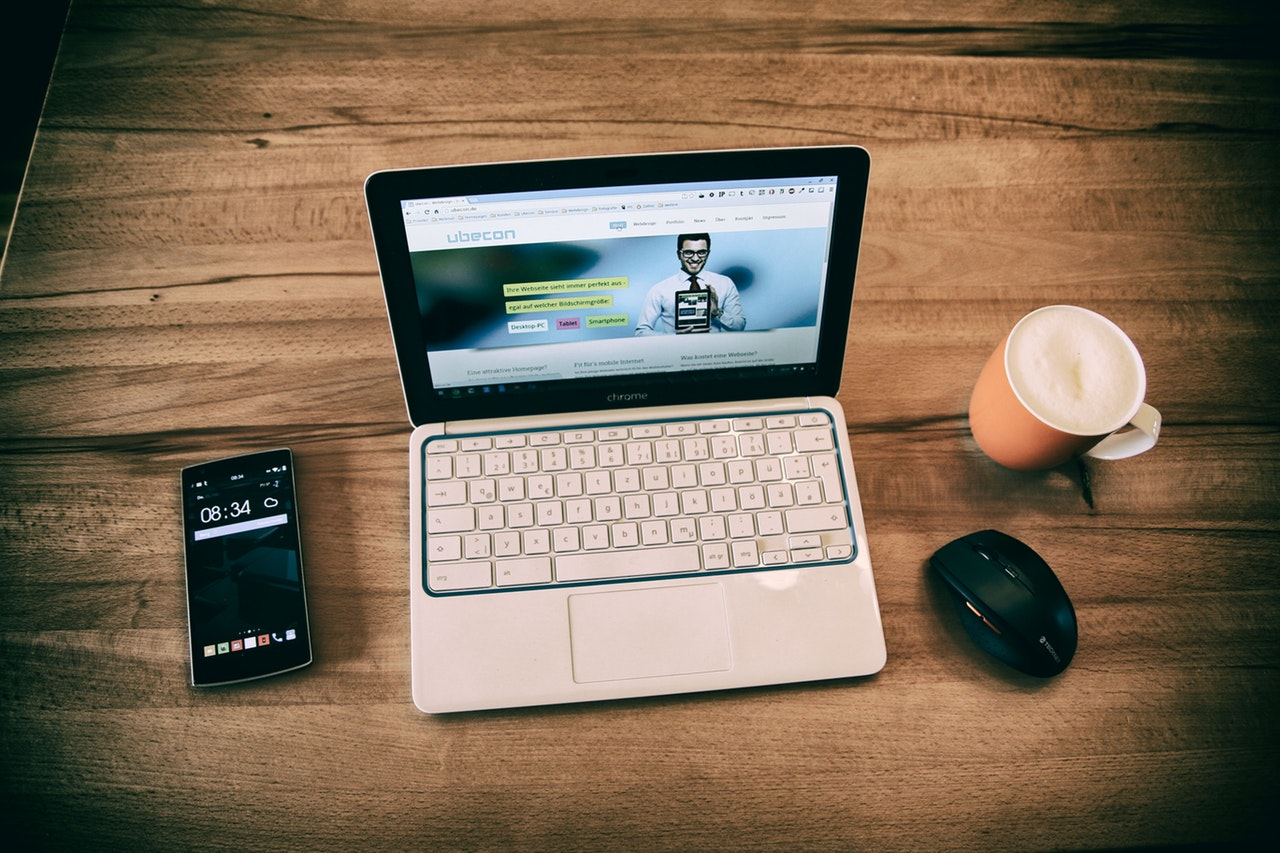
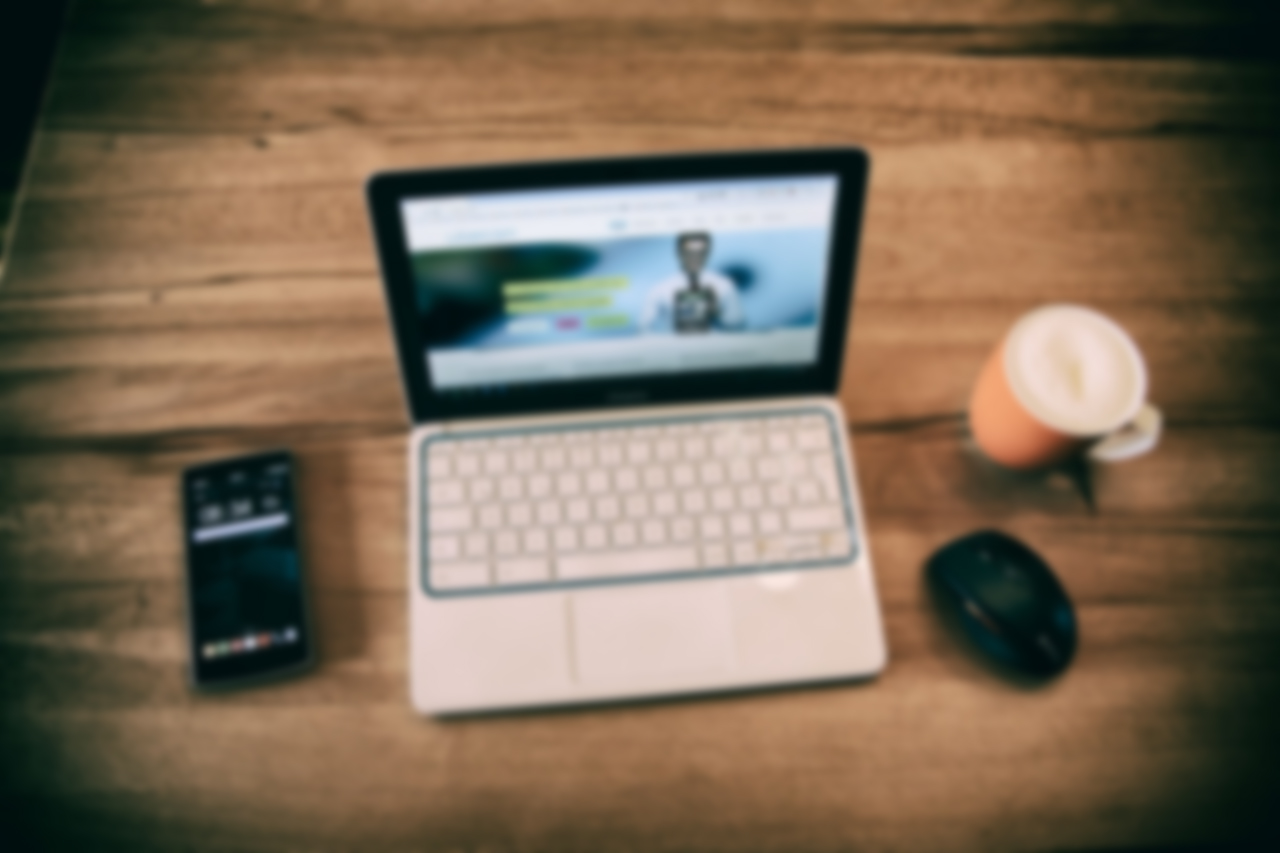
save9

diff --git a/css/style.css b/css/style.css
@@ -1,14 +1,17 @@
+/* FONTS */
+@import url('https://fonts.googleapis.com/css?family=Quicksand:300,400,500,700|Roboto:400,400i,500,700,700i');
+
 /* GENERAL */
 html, html a {
     -webkit-font-smoothing: antialiased;
     text-shadow: 1px 1px 1px rgba(0,0,0,0.004);
-    z-index: 10;
 }
 
 body {
-	color: #c4cbcf;
-	background-color: cornflowerblue;
-	font-family: 'Source Sans Pro', sans-serif;
+	/*color: #c4cbcf;
+	background-color: cornflowerblue;*/
+	font-family: 'Roboto', sans-serif;
+    font-weight: 500;
 }
 
 .container:before,
@@ -27,12 +30,6 @@ body {
 	clear: both;
 }
 
-.container,
-.group,
-.menu {
-	*zoom:1;
-}
-
 a {
 	text-decoration: none;
 }
@@ -43,7 +40,7 @@ strong {
 
 .container {
     width: 100%;
-	/*max-width: 1170px;*/
+	max-width: 1280px;
 	margin: 0 auto;
 }
 
@@ -57,27 +54,30 @@ i {
 	background: #121b21;
 	display: flex;
   	align-items: center;
+    font-family: 'Roboto', sans-serif;
+    font-weight: 700;
+    /*position: sticky;*/
 }
 
 .initials{
-    font-size: 70px;
+    font-size: 60px;
     letter-spacing: -12px;
-    padding-right: 12px;
-}
-
-.post-initials {
-    margin-left: -94px;
+    text-decoration-line: none;
+    padding-right: 20px;
 }
 
 .navigation {
 	margin: 0 auto;
-	height: 84px;
+	height: 50px;
     list-style: none;
 	padding-left: 0;
 }
+.menu {
+    display: none;
+}
 
 .navigation a {
-	color: #c4cbcf;
+	color: white;
 	display: block;
 	text-decoration: none;
 	text-align: center;
@@ -86,7 +86,7 @@ i {
 
 .navigation li {
 	float: right;
-	padding-top: 1.7em;
+	padding-top: 1em;
 	padding-right: 5em;
 }
 
@@ -97,18 +97,34 @@ i {
     float: left;
 }
 
-
-/* INTRO IMAGE*/
-.intro-image {
-    margin: -10px;
-    z-index: 1;
+/* HEADER INTRO TEXT*/
+.intro {
+    display: flex;
+    justify-content: center;
+    align-items: center;
+    max-width: 100%;
+    height: 20%;
 }
 
-.blur {
-	-webkit-filter: blur(3px);
-	filter: blur(0px);
+.intro-text {
+    max-width: 100%;
+    font-family: 'Quicksand', sans-serif;
+    font-weight: 400;
+    letter-spacing: -0.09em;
+    color: white;
+    filter: drop-shadow(0px 0px 12px black);
+    font-size: 10em;
+    margin: -10em 0 0 0;
 }
 
+/*.intro-text:before {
+  content: "";
+  position: absolute;
+  width: 1400px;
+  height: 200px;
+  background: -webkit-radial-gradient(50% 50%, ellipse closest-side, black, transparent);
+  z-index: -1;
+}*/
 
 /*MEDIA QUERIES - NAV BAR*/
 
@@ -122,7 +138,7 @@ i {
 
     .navigation li {
 	   float: right;
-	   padding-top: 1.7em;
+	   padding-top: 1em;
 	   padding-right: 1.5em;
     }
 }
@@ -130,13 +146,96 @@ i {
 @media screen and (max-width: 768px) {
     .navigation li {
 	   float: right;
-	   padding-top: 1.7em;
+	   padding-top: 1em;
 	   padding-right: 0.3em;
     }
     .navigation li:nth-child(2) {
 	   float: right;
-	   padding-top: 1.7em;
+	   padding-top: 1em;
 	   padding-right: 3em;
     }
+}
+@media screen and (max-width: 600px) {
+    .navigation li:first-child {
+        display: block;
+        margin-left: -230px;
+        padding-left: 0px;
+        padding-top: 0em;
+        padding-right: 50em;
+        float: left;
+    }
+    .navigation li {
+        display: none;
+        width: 100%;
+	   float: left;
+	   padding-top: 1em;
+	   padding-right: 0.3em;
+    }
+    .navigation li:nth-child(2) {
+	   float: none;
+	   padding-top: 1em;
+	   padding-right: 3em;
+    }
+    .navigation a {
+        font-size: 16px;
+    }
+    .menu {
+        display: block;
+        float: right;
+	   padding-top: 1.2em;
+	   padding-right: 0.3em;
+    }
+}
 
+
+
+/*MEDIA QUERIES - NAV BAR*/
+
+@media screen and (max-width: 1600px) {
+    .intro-text {
+        font-size: 9em;
+        margin: -6em 0 0 0;
+    }
+}
+@media screen and (max-width: 1300px) {
+    .intro-text {
+        font-size: 7em;
+        margin: -7em 0 0 0;
+    }
+}
+@media screen and (max-width: 1000px) {
+    .intro-text {
+        font-size: 5em;
+        margin: -7em 0 0 0;
+    }
+}
+@media screen and (max-width: 768px) {
+    .intro-text {
+        font-size: 4em;
+        margin: -8em 0 0 0;
+    }
+}
+@media screen and (max-width: 640px) {
+    .intro-text {
+        font-size: 3em;
+        margin: -10em 0 0 0;
+    }
+}
+@media screen and (max-width: 585px) {
+    .intro-text {
+        font-size: 2.5em;
+        margin: -9em 0 0 0;
+    }
+}
+@media screen and (max-width: 430px) {
+    .intro-text {
+        font-size: 2em;
+        margin: -9.5em 0 0 0;
+    }
+}
+@media screen and (max-width: 360px) {
+    .intro-text {
+        font-size: 2em;
+        margin: -8em 0 0 0;
+    }
 }

diff --git a/index.html b/index.html
@@ -3,7 +3,7 @@
 <head>
 	<title>Portfolio | Fedor Božík</title>
 	<meta charset="utf-8">
-    <meta name="viewport" content="width=device-width, initial-scale=1">
+    <meta name="viewport" content="width=device-width, initial-scale=1.0, maximum-scale=1.0, minimum-scale=1.0,target-densitydpi=device-dpi, user-scalable=no" />
 
     <link rel="stylesheet" href="https://use.fontawesome.com/releases/v5.0.10/css/all.css" integrity="sha384-+d0P83n9kaQMCwj8F4RJB66tzIwOKmrdb46+porD/OvrJ+37WqIM7UoBtwHO6Nlg" crossorigin="anonymous">
 	<link href="https://fonts.googleapis.com/css?family=Source+Sans+Pro:300,400,600,900" rel="stylesheet">
@@ -23,12 +23,12 @@
 		<div class="nav-bar">
 			<div class="container">
 				<nav>
-					<ul class="menu navigation">
-                        <li><a href="#"><strong class="initials">FB ____</strong><strong class="post-initials">Portfolio</strong></a></li>
-						<li><a href="#"><i class="fas fa-paper-plane"></i><strong>Contact</strong></a></li>
-						<li><a href="#"><i class="fas fa-bug"></i><strong>Experience</strong></a></li>
-						<li><a href="#"><i class="fas fa-code"></i><strong>Skills</strong></a></li>
-						<li><a href="#"><i class="fas fa-home"></i><strong>Home</strong></a></li>
+					<ul class="navigation">
+                        <li><a href="#"><strong class="initials">FB</strong></a></li>
+						<li ><a href="#"><i class="fas fa-paper-plane"></i><strong>Contact</strong></a></li>
+						<li ><a href="#"><i class="fas fa-bug"></i><strong>Experience</strong></a></li>
+						<li ><a href="#"><i class="fas fa-code"></i><strong>Skills</strong></a></li>
+						<li ><a href="#"><i class="fas fa-home"></i><strong>Home</strong></a></li>
 					</ul>
 				</nav>
 			</div>
@@ -38,15 +38,20 @@
 
 
 	<main>
-        <div class="intro-image">
-        <picture>
-            <source media="(min-width: 3840px)" srcset="img/macbook-pro-desk-4102x2464.jpeg">
-            <source media="(max-width: 1920px)" srcset="img/macbook-pro-desk-1920x1153.jpeg">
-            <source media="(max-width: 1280px)" srcset="img/macbook-pro-desk-1280x768.jpeg">
-            <source media="(max-width: 640px)" srcset="img/macbook-pro-desk-640x384.jpeg">
-            <img class="blur" src="img/macbook-pro-desk-4102x2464.jpeg" alt="intro-image" style="max-width:100%;height:auto;">
-        </picture>
+            <picture>
+                <source media="(min-width: 3840px)" srcset="img/macbook-pro-desk-4102x2464.jpeg">
+                <source media="(max-width: 1920px)" srcset="img/macbook-pro-desk-1920x1153.jpeg">
+                <source media="(max-width: 1280px)" srcset="img/macbook-pro-desk-1280x768.jpeg">
+                <source media="(max-width: 640px)" srcset="img/macbook-pro-desk-640x384.jpeg">
+                <img src="img/macbook-pro-desk-4102x2464.jpeg" alt="intro-image" style="max-width:100%;height:auto;">
+            </picture>
+        <div class="intro">
+            <h1 class="intro-text">Portfolio | Fedor Božík</h1>
         </div>
+
+        <section>
+            <p>Nejaky text TEST</p>
+        </section>
 	</main>
 
 
